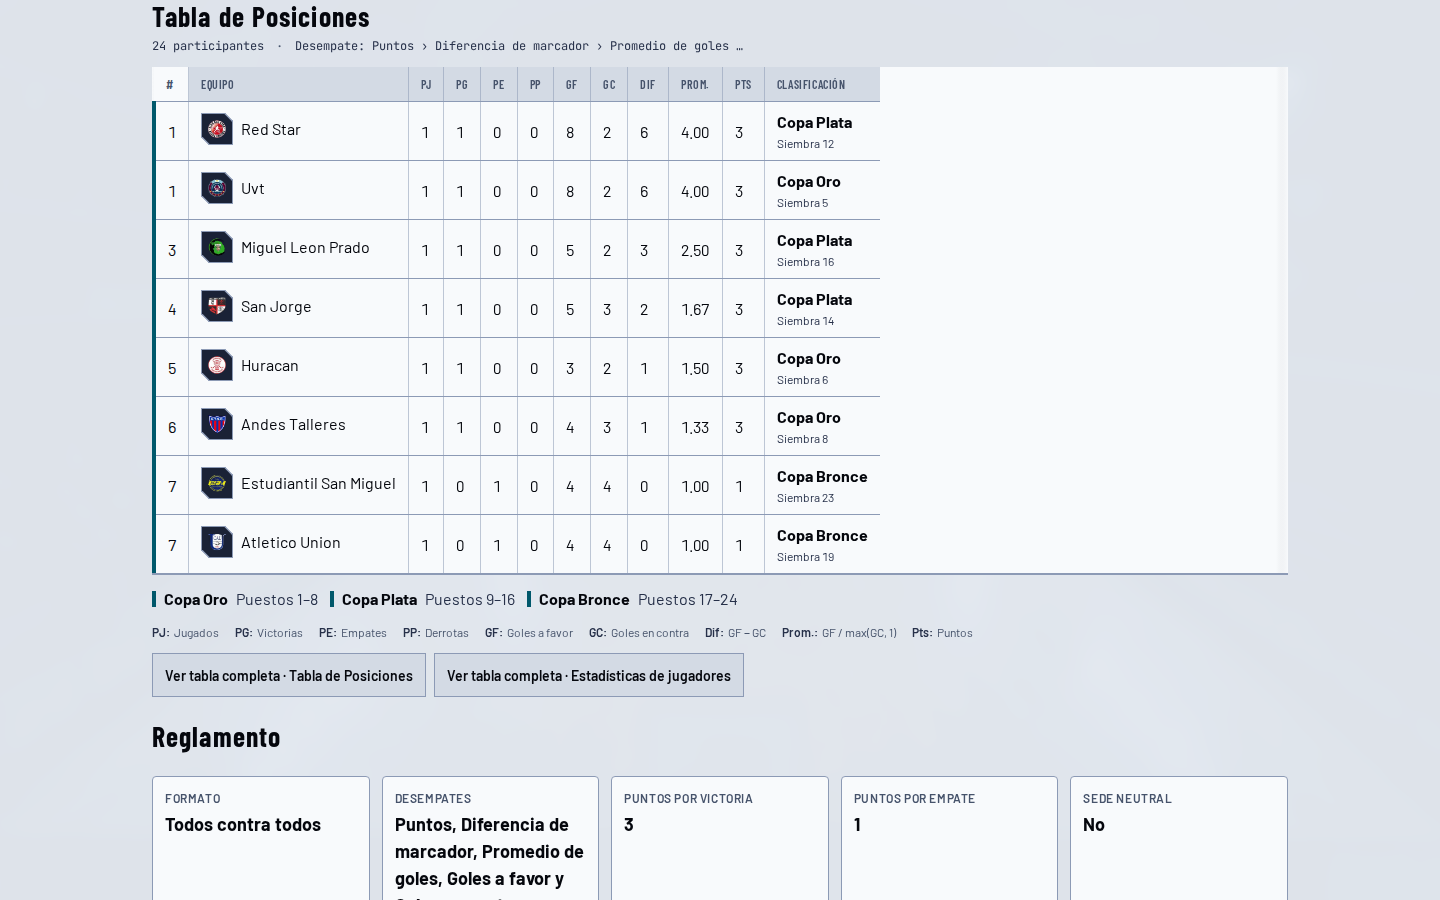
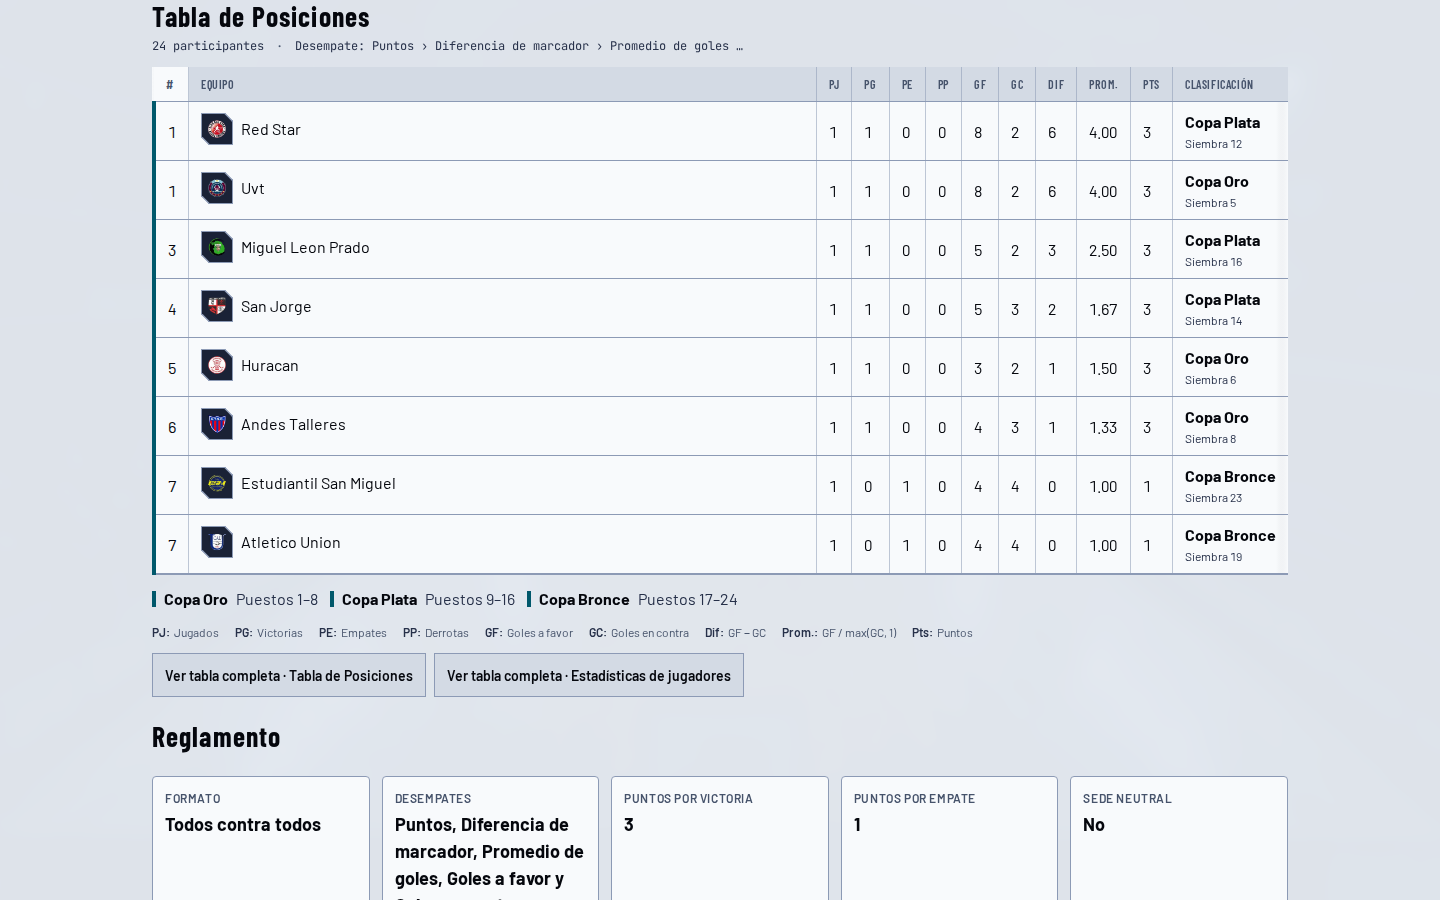
fix(web): let the public standings table fill its panel with the name column taking the spare width

diff --git a/e2e/standings-and-rankings.spec.ts b/e2e/standings-and-rankings.spec.ts
@@ -633,6 +633,31 @@ test.describe('B2: public tournament page', () => {
     await expect(page.getByRole('cell', { name: '4.00' })).toBeVisible();
   });
 
+  test('the standings table fills its panel, and the name column takes the spare width', async ({
+    page,
+  }) => {
+    await page.setViewportSize({ width: 1440, height: 900 });
+    await page.goto(`/${ORGANIZATION}/tournaments/${TOURNAMENT_ALIAS}`);
+    await expect(page.getByRole('cell', { name: 'Talleres' })).toBeVisible();
+
+    const widths = await page.locator('#standings').evaluate((section) => {
+      const table = section.querySelector('table.cl-table');
+      const fill = table?.querySelector('thead th.cl-table__fill');
+      return {
+        table: table?.getBoundingClientRect().width ?? 0,
+        panel: table?.closest('.cl-table-scroll')?.clientWidth ?? 0,
+        fill: fill?.getBoundingClientRect().width ?? 0,
+        others: [...(table?.querySelectorAll('thead th:not(.cl-table__fill)') ?? [])].map(
+          (th) => th.getBoundingClientRect().width,
+        ),
+      };
+    });
+    expect(widths.panel).toBeGreaterThan(0);
+    expect(widths.table).toBeCloseTo(widths.panel, 0);
+    for (const width of widths.others) expect(width).toBeLessThan(widths.fill);
+    expect(widths.fill).toBeGreaterThan(widths.table / 2);
+  });
+
   for (const path of [
     `/${ORGANIZATION}`,
     `/${ORGANIZATION}/tournaments/${TOURNAMENT_ALIAS}`,

diff --git a/apps/web/src/components/public-cta-and-brand.test.ts b/apps/web/src/components/public-cta-and-brand.test.ts
@@ -106,7 +106,9 @@ describe('public tables and filter pills', () => {
   });
 
   it('renders standings through the shared table treatment', () => {
-    expect(standings).toContain('class="cl-table cl-table--priority"');
+    expect(standings).toContain(
+      "class:list={['cl-table cl-table--priority', { 'cl-table--fill': fillColumnIndex >= 0 }]}",
+    );
     expect(standings).toContain(
       'data-sortable-table={showControls && previewRows === undefined ? true : undefined}',
     );
